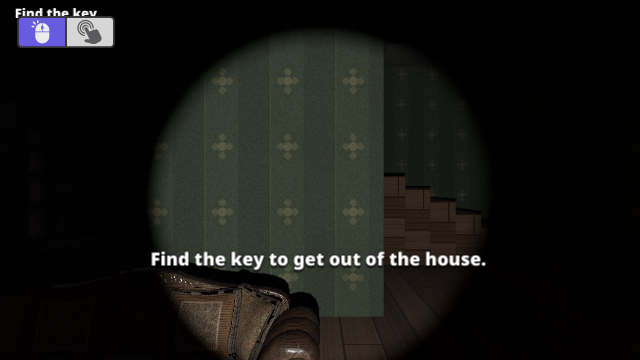
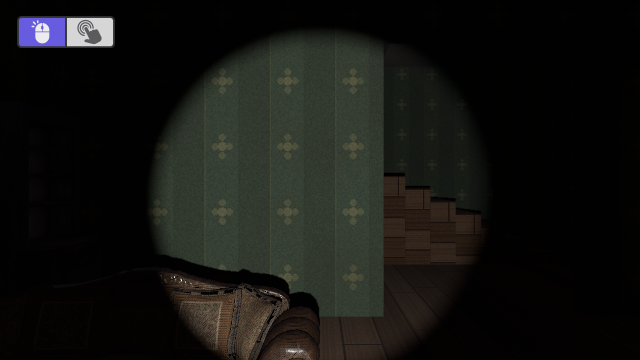
Hide the texts in the rendering screenshot of the house horror
The texts are drawn with the font settings of the system: on CircleCI, they
were drawn a pixel apart from the expected image, while the 3D rendering was
the same. The other games show no text.

Claude-Session: https://claude.ai/code/session_01GFZna1tBkWVDbpAbTNnXpr

Changed region(s): [[0.2188, 0.7028, 0.75, 0.7639], [0.0, 0.0, 0.1562, 0.0611]]

diff --git a/README.md b/README.md
@@ -254,6 +254,10 @@ node scripts/check-rendering-screenshots.js --update
 When a screenshot differs, an image of the differences (in magenta) is written
 next to it, in the artifacts of the job (under `rendering-screenshots/`).
 
+Texts are drawn with the font settings of the system, which differ from one
+machine to another: hide the layers showing texts in these screenshots
+(`hideLayers: ['UI']`).
+
 ## License
 
 All examples provided on this repository are MIT licensed, unless specified otherwise.
